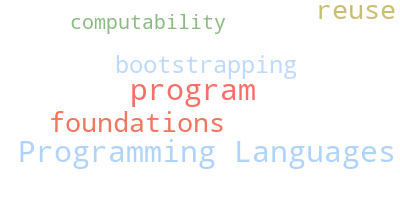
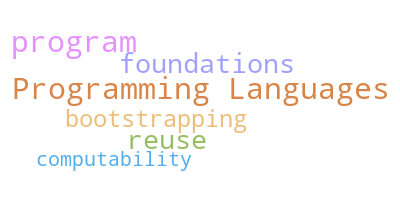
feat: add more wordcloud color variety

Changed region(s): [[0.03, 0.06, 0.99, 0.87], [0.57, 0.69, 0.99, 0.87], [0.78, 0.03, 0.99, 0.12]]

diff --git a/source/python/my_wordcloud.py b/source/python/my_wordcloud.py
@@ -16,6 +16,7 @@ with open("./assets/interests.json") as file:
 
 # Inspired by this theme:
 # https://duckduckgo.com/?q=doom+one+github&ia=web
+
 palette = {
     "red": "#ff6c6b",
     "orange": "#da8548",
@@ -29,7 +30,7 @@ palette = {
 }
 
 colormap = matplotlib.colors.LinearSegmentedColormap.from_list(
-    "doom_one", list(palette.values())
+    "doom_one", list(palette.values()), N=len(palette)
 )
 
 wordcloud = WordCloud(